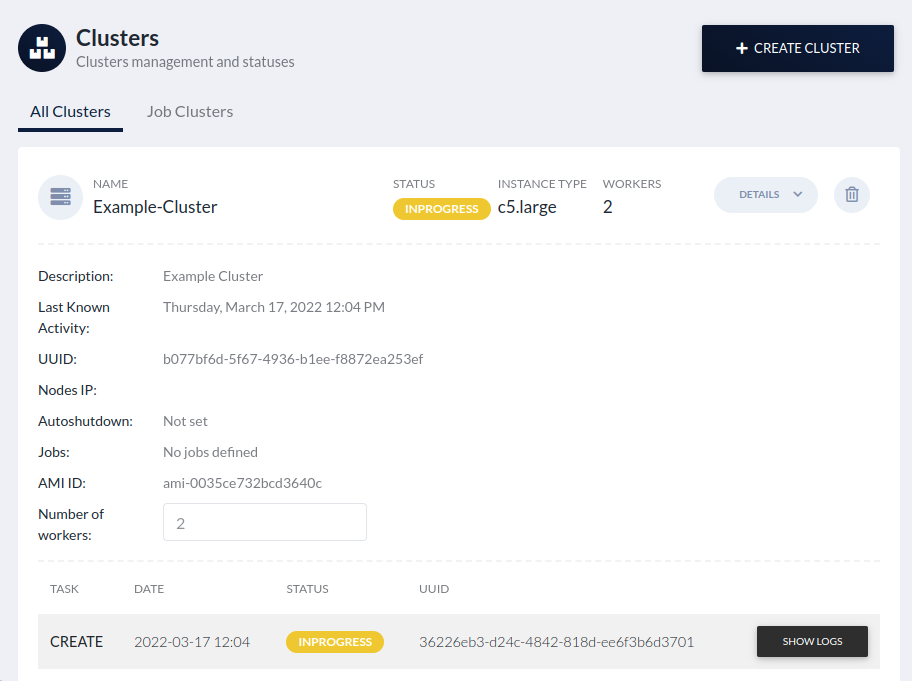
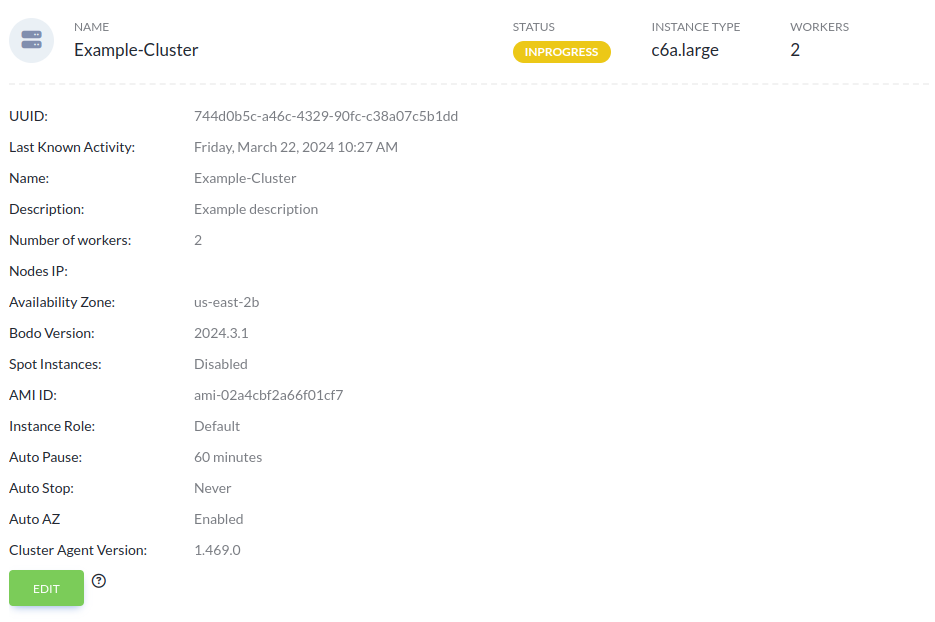
[BP-4345] Update screenshots and gifs (#7460)
* [BP-4345] Update screenshots and gif

* Remove not used screenshots

---------

diff --git a/docs/docs/installation_and_setup/bodo_platform.md b/docs/docs/installation_and_setup/bodo_platform.md
@@ -66,10 +66,10 @@ A Jupyter server is automatically provisioned for your use when you first enter 
 
 ![Notebook-View](../platform2-screenshots/notebook_view.png#center)
 
-You can view and manage all the Jupyter servers in the "Notebook Manager" section of
-"Workspace Settings".
+You can update / restart Jupyter servers in the "Workspace Settings".
 
-![Notebook-Manager](../platform2-screenshots/notebook_manager.png#center)
+
+![Notebook-Manager](../platform2-gifs/notebook_manager.gif#center)
 
 ## Creating Clusters {#creating_clusters}
 
@@ -110,7 +110,7 @@ automatically.
 ![Cluster-Form-Auto-Pause](../platform2-screenshots/cluster_auto_pause.png#center)
 
 
-Additionally, you can select a value for **Cluster auto shutdown**. Activity is determined through attached notebooks (see
+Additionally, you can select a value for **Cluster auto pause**. Activity is determined through attached notebooks (see
 [how to attach a notebook to a cluster][attaching_notebook_to_cluster]) and jobs
 (see [how to run a job][running-a-job]). Therefore, if you
 don't plan to attach a notebook or a job to this cluster (and use it
@@ -118,7 +118,7 @@ via `ssh` instead), it's recommended to set this to
 `Never`, since otherwise the cluster will be removed after
 the set time.
 
-![Cluster-Form-Advanced](../platform2-screenshots/cluster_auto_shutdown.png#center)
+![Cluster-Form-Advanced](../platform2-screenshots/cluster_auto_stop.png#center)
 
 Finally click on `CREATE`. You will see that a new task for creating the
 cluster has been created. The status is updated to <inpg>INPROGRESS</inpg> when the task starts executing and
@@ -157,9 +157,9 @@ To attach a notebook to a cluster, select the cluster from the drop-down in the 
 
 ![Attach-Cluster](../platform2-gifs/attach-cluster.gif#center)
 
-To execute your code across the attached cluster, use IPyParallel magics `%%px` and `%autopx`.
+To execute your code across the attached cluster, select Parallel Python cell.
 
-![Run-Code-Notebook](../platform2-gifs/parallel-magic.gif#center)
+![Run-Code-Notebook](../platform2-gifs/parallel-python.gif#center)
 
 Note that parallel execution is only allowed when the notebook is attached to a cluster.
 If you execute a cell without a cluster attached, the following warning will be shown:
@@ -237,7 +237,7 @@ Step 2: Register your AWS IAM Role on the Bodo Platform as a new Instance Role:
    * Role ARN: AWS Role ARN from Step 1
    * Description: Short description for Instance Role
 
-![Create-Instance-Role](../platform2-screenshots/instance-role-form.png#center)
+![Create-Instance-Role](../platform2-gifs/instance-role-form.gif#center)
 
 
 2. Click on the **Create** button.
@@ -312,29 +312,16 @@ a cluster in some cases. In that case, you can connect through a notebook
 terminal.
 
 ### Connecting with a Notebook Terminal
+![Notebook-Terminal](../platform2-gifs/notebook-terminal.gif#center)
 
-First, you need to [create a cluster][creating_clusters]
-and [attach a notebook to the cluster][attaching_notebook_to_cluster].
-This will create the ssh-key at ``~/cluster_ssh_keys/id_rsa-<CLUSTER-UUID>``.
-
-Then, go the cluster tab and find your cluster. Click on `DETAILS` and
-copy the cluster `UUID` and `IP address` of the node you would like to connect to.
-
-![Cluster-UUID-Info](../platform_onboarding_screenshots/cluster-ip-info.png#center)
-
-Next, go to the notebooks tab and select `OPEN NOTEBOOK`. In the
-_Launcher_, click on `Terminal`.
-
-![Notebook-Terminal](../platform_onboarding_screenshots/notebook-terminal.png#center)
-
-In the terminal you can connect to any of the cluster nodes by running
+If you cluster have more than one node. In the terminal you can connect to any of the cluster nodes by running
 ```shell
-ssh -i ~/cluster_ssh_keys/id_rsa-<CLUSTER_UUID> <IP>
+ssh <NODE-IP>
 ```
 
 ![Connect-Cluster](../platform2-gifs/connect-to-cluster.gif#center)
 
-Through this terminal, you can interact with the `/shared` folder, which
+Through this terminal, you can interact with the `/bodofs` folder, which
 is shared by all the instances in the cluster and the Notebook instance.
 [Verify your connection][verify_your_connection] to interact directly with your cluster.
 
@@ -346,13 +333,13 @@ that you can run operations across all the instances in the cluster.
 1.  Verify the path to the hostfile for your cluster. You can find it by
     running:
     ```shell
-    ls -la /shared/.hostfile-<CLUSTER UUID>
+    ls -la /home/bodo/hostfile
     ```
 2.  Check that you can run a command across you cluster. To do this,
     run:
 
     ```shell
-    mpiexec -n <TOTAL_CORE_COUNT> -f /shared/.hostfile-<CLUSTER UUID> hostname
+    mpiexec -n <TOTAL_CORE_COUNT> -f /home/bodo/hostfile hostname
     ```
 
     This will print one line per each core in the cluster, with one
@@ -366,12 +353,11 @@ that you can run operations across all the instances in the cluster.
 3.  Verify that you can run a python command across your cluster. For
     example, run:
 
-        mpiexec -n <TOTAL_CORE_COUNT> -f /shared/.hostfile-<CLUSTER_UUID> python --version
+        mpiexec -n <TOTAL_CORE_COUNT> -f /home/bodo/hostfile python --version
 
 If all commands succeed, you should be able to execute workloads across
-your cluster. You can place scripts and small data that are shared
-across cluster nodes in `/shared`. However, external storage, such as
-S3, should be used for reading and writing large data.
+your cluster. You can place scripts and data that are shared
+across cluster nodes in `/bodofs`. 
 
 ## Running a Job  :material-delete-clock:{ title="Soon to be deprecated" }
 
@@ -379,76 +365,46 @@ Bodo Cloud Platform has support for running scheduled (and immediate)
 Python jobs without the need for Jupyter Notebooks. To create a Job,
 navigate to the Jobs page by selecting _Jobs_ in the left bar.
 
-![Sidebar-Jobs](../platform_onboarding_screenshots/side-jobs.png#center)
+![Sidebar-Jobs](../platform2-screenshots/side-jobs.png#center)
 
 This pages displays any <inpg> INPROGRESS</inpg> jobs you have previously scheduled
 and allows you to schedule new Jobs. At the top right corner, click on
-`CREATE JOB`. This opens a job creation form.
+`CREATE JOB DEFINITION`. This opens a job definition creation form.
 
-First, select a name for your job and specify the cluster on which you
-want to deploy your job. If you have an existing cluster that is not
-currently bound to a notebook or another job, you can select this
-cluster from the dropdown menu. Alternatively, you can create a cluster
-specifically for this job by selecting the `NEW` button next to the
-cluster dropdown menu. When creating a cluster specifically for a job,
-note that the cluster is only used for that job and is removed once the
-job completes. After selecting your cluster, indicate when you want your
-job to be executed in the **Schedule** section. Then, enter the
-**Command** that you want to execute inside this cluster.
-
-!!! note
-    This command is automatically prepended with
-    `mpiexec -n <CORE_COUNT> python`. For example, to run a file `ex.py`
-    with the argument 1, you would enter the command `ex.py 1`.
-
-To specify your source code location, fill in the **Path** line with a
-valid Git URL that leads to a repository containing your code.
+First, select a name for your job definition and source type.
+Then specify details for source location. In advance option you can pass arguments, 
+catalog, retry strategy and description. Optionally you can specify Job Cluster definition
+it can be used to create new Cluster for Job Run.
 
 !!! note
     When selecting a GitHub URL, you should select the URL
     available at the top of your web browser and NOT the path when cloning
     the repository, _i.e._ your path SHOULD NOT end in `.git`.
 
-![Jobs-Forms-Standard](../platform2-gifs/create-job.gif#center)
-
-If you are cloning a private repository, you need to provide the
-platform with valid Git credentials to download your repository. To do
-so, select `Show advanced` in the bottom right of the form. Then in
-**Workspace username**, enter your Git username and in **Workspace
-password** enter either your password or a valid Github Access Token.
-The advanced options also allow you to specify a particular commit or
-branch with **Workspace reference** and to load other custom environment
-variables in **Other**.
-
 !!! note
     If your Github Account uses 2FA please use a Github Access
     Token to avoid any possible authentication issues.
 
-Once your form is complete, select `CREATE` to begin your job.
+Once your form is complete, select `SUBMIT` to create your job definition.
 
+![Job-Definition-Form](../platform2-gifs/workspace-job-def.gif#center)
+
+Once you've job definition you can create a Job Run.
 ![Job-Run](../platform2-gifs/job-run.gif#center)
 
-Once you've provided all the necessary details, select `CREATE` to
-begin your job. You will see a <new>NEW</new> task created in your jobs page.
-
-If you created a cluster specifically for this job, a new cluster will
-also appear in your clusters page.
-
-Your job will begin once it reaches its scheduled time and any necessary
-clusters have been created. Then your job will transition to being
-<inpg>INPROGRESS</inpg>.
-
 At this point your job will execute your desired command. Once it
-finishes executing, your job will transition to <fin>FINISHED</fin> status. You
-can find any stdout information that you may need by pressing `DETAILS`
-followed by `SHOW LOGS`. If a cluster was specifically created for this
-job, it will be deleted after the job finishes.
+finishes executing, your job will transition to <fin>SUCCEEDED</fin> status. You
+can find stdout / stderr logs pressing `DETAILS` followed by `Logs`.
+![Job-Run](../platform2-gifs/job-run-logs.gif#center)
+
+!!! note
+    If a cluster was specifically created for this job, it will be deleted after the job finishes.
 
 !!! note
     Bodo **DOES NOT** preserve artifacts written to local storage. If
     you have any information that you need to persist and later review, you
-    should write to external storage, such as Amazon S3. You may also write
-    to stdout/stderr, but output logs may be truncated, so it should not be
+    should write to external storage or to /bodofs (AWS S3/Azure Blob Storage). 
+    You may also write to stdout/stderr, but output logs may be truncated, so it should not be
     considered reliable for large outputs that need to be read later.
 
 ## Troubleshooting
